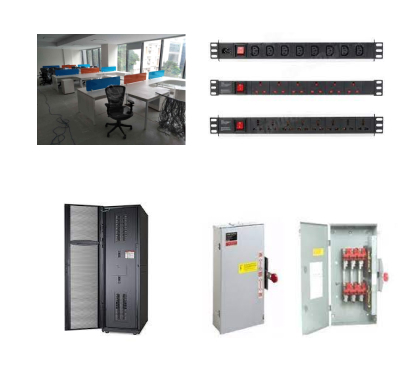
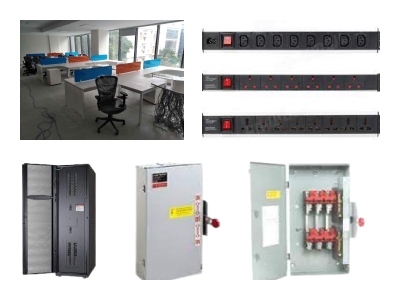
all images updated in our services details pages

diff --git a/pages/construction.html b/pages/construction.html
@@ -93,30 +93,35 @@
   <section id="">
    
   </section>
-   <!-- ======= Power System Section ======= -->
-    <section id="powerSystem" class="about-boxes">
-      <div class="container">
-	  <div class="section-title">
-          <h2>Construction</h2>
-       </div>
-	   <div class="row cardBox" data-aos="fade-right">
-	   <p>Secupower has capacity, capability, and experience to perform all the site development works :</p>
-	   <div class="col-xl-6  col-sm-12">
-        <img src="../assets/img/ourServices_construction.png" class="green_border" style="width:100%; height:100%;">
-		</div>
-	   <div  class="col-xl-6" style="padding:10px;">
-			    <p>Site enclosures, site fencing, site surveying, site grading, infill, excavation, leveling and compaction, utilities for all types of commercial, industrial, residential structures and buildings such as warehouses, schools, shopping centers and residential villas. This division includes Civil Turnkey Projects, Structural Works, Finishing Works, Infrastructural works.</p>
-			  <h6>Structural</h6>
-			  <p>SecuPower has an outstanding track record in foundation, construction, retaining walls, columns, intermediate, floor and all types of commercial and residential structures such as warehouses, shopping centers, schools and residential compounds.</p>
-		<h6>Plumbing</h6>
-		<p>Supply, installation, connection and testing of all types of sanitary plumbing fixtures and fittings. Supply, installation, connections and testing of ground and underground waste, sanitary sewage.</p>
-		<h6>Precasting</h6>
-		<p>Precast concrete is a form of product produced  by casting concrete in a reusable mold which is prepared, cast and cured, generally in a curbed manufactory environment, using recyclable moulds. Precast concrete  components can be attach to one another to form a absolute structure. It is consistently used for structural components such as;  columns, beams, floors, wall panels, staircases, pipes, tunnels, etc.</p>
-		</div>
-	  </div>
-	  </div>
-    </section><!-- End Power System Section Section -->
-
+   
+   <!-- ======= Construction Section ======= -->  
+<section id="" class="about-boxes">
+  <div class="container">
+  <div class="section-title">
+         <h2>Construction</h2>
+     </div>
+     <div class="row cardBox" data-aos="fade-right" data-aos-delay="100">
+	 <div class="col-xl-12 SerDetailsTopMargin">
+	 <p>Secupower has capacity, capability, and experience to perform all the site development works :</p>
+	 </div>
+        <div class="col-xl-6 col-sm-12">
+           <img src="../assets/img/ourServices_construction.png" class="green_border" style="width:100%; height:100%;">
+        </div>
+        <div class="col-xl-6 col-sm-12">
+           <div class="card-body">
+                <h4 class="tradingH4">Civil Solutions:</h4>
+                <p>Site enclosures, site fencing, site surveying, site grading, infill, excavation, leveling and compaction, utilities for all types of commercial, industrial, residential structures and buildings such as warehouses, schools, shopping centers and residential villas. This division includes Civil Turnkey Projects, Structural Works, Finishing Works, Infrastructural works.</p>
+			    <h6>Structural</h6>
+			    <p>SecuPower has an outstanding track record in foundation, construction, retaining walls, columns, intermediate, floor and all types of commercial and residential structures such as warehouses, shopping centers, schools and residential compounds.</p>
+				<h6>Plumbing</h6>
+				<p>Supply, installation, connection and testing of all types of sanitary plumbing fixtures and fittings. Supply, installation, connections and testing of ground and underground waste, sanitary sewage.</p>
+				<h6>Precasting</h6>
+				<p>Precast concrete is a form of product produced  by casting concrete in a reusable mold which is prepared, cast and cured, generally in a curbed manufactory environment, using recyclable moulds. Precast concrete  components can be attach to one another to form a absolute structure. It is consistently used for structural components such as;  columns, beams, floors, wall panels, staircases, pipes, tunnels, etc.</p>
+            </div>
+        </div>
+     </div>
+  </div>
+</section><!-- End Construction Section -->
   </main><!-- End #main -->
 
    <!-- ======= Footer ======= -->

diff --git a/pages/power_systems.html b/pages/power_systems.html
@@ -93,76 +93,18 @@
   <section id="">
    
   </section>
-   <!-- ======= Power System Section ======= -->
-   <!-- <section id="powerSystem" class="powerSystem">
-      <div class="container">
-	  <div class="section-title">
-          <h2>Power System</h2>
-       </div>
-	   <div  class="row service_detail_card_powersys" data-aos="fade-right">
-	   </br>
-	   	 <h4>We have the capacity, capability, and experience to perform all the electrical works, Power System Studies and Analysis works such as:</h4>
-	      <ul class="col-xl-6 col-lg-6 col-md-6"> 
-		  </br>
-			<li>Electrical Cables</li>
-			<li>Power Transformer</li>
-			<li>Pad Mounted Distribut Transformers</li>
-			<li>Dry Type Transformers</li>
-			<li>Package and Unit Sub-station</li>
-			<li>Ups System</li>
-			<li>Earthing Cables</li>
-			<li>Metering Cabinets and Panels</li>
-			<li>Mv and Switch Gears</li>
-			<li>Explosion Proof Junction Box Cable Trays</li>
-			<li>Conduit and Accessories</li>
-			<li>Bulbs | Ballasts</li>
-			<li>Trouble Lights | Flood Lights</li>
-			<li>Connectors</li>
-			<li>Plugs</li>
-			<li>Switches</li>
-			<li>Batteries</li>
-			<li>Motor Controls</li>
-			<li>Sensors</li>
-			<li>Timers</li>
-			<li>Instrumentation and Power Cables</li>
-			 </br>
-		</ul>
-		
-		<ul  class="col-xl-6 col-lg-6 col-md-6 col-sm-6"> 
-		     </br>
-			<li>Load Flow Study</li>
-			<li>Short Circuit Study</li>
-			<li>Relay Setting Calculations</li>
-			<li>Relay coordination studys</li>
-			<h6>Design & Sizing Calculations</h6>
-			<li>MV/LV Cable</li>
-			<li>Power Transformer</li>
-			<li>Instrument Transformers(CT's Vt's) Sizing Calculations</li>
-			<li>Battery Bank, Battery Chargers & UPS Sizing Calculations</li>
-			<li>Design Calculations for Grounding, Lighting, DG Sets</li>
-			<h6>Condition Monitoring & Diagnostic Testing of Major Power Equipment</h6>
-			<li>SFRA,Generators (> 5 MW) & H.T. motors (4.6 kV to 13.8 kV and >250 kW)</li>
-			<li>Power transformers and oil (> 5 MVA)</li>
-			<li>HV / EHV, CT’s / PT's and CVT's</li>
-			<li>MV / HV cables testing by very low frequency (VLF) test method</li>
-			<li>Online testing of lightning arresters & Switchgear condition monitoring testing</li>
-			<h6>Power quality management</h6>
-			<li>Harmonics measurement & Correction recommendations</li>
-			<li>Power Factor Improvement & Capacitor Bank Application</li>
-			 </br>
-		</ul>
-		</div>
-	  </div>
-    </section>--><!-- End Power System Section Section -->
+   
 	
-	
+	 <!-- ======= Power System Section ======= -->
 	<section id="" class="about-boxes">
 		<div class="container">
 		<div class="section-title">
 			<h2>POWER SYSTEM</h2>
 		</div>
      <div class="row cardBox" data-aos="fade-right" data-aos-delay="100">
+	 <div class="col-xl-12 SerDetailsTopMargin">
 	 <p>SECUPOWER has capacity, capability, and experience to perform all the electrical works such as</p>
+	 </div>
         <div class="col-xl-6 col-sm-12">
            <img src="../assets/img/power_system.png" class="green_border" style="width:100%; height:100%;">
         </div>
@@ -201,7 +143,9 @@
 	<section id="" class="trading">
 		<div class="container">
 		<div class="row cardBox" data-aos="fade-right" data-aos-delay="100">
+		<div class="col-xl-12 SerDetailsTopMargin">
 		<p>SECUPOWER has capacity, capability, and experience to perform Power System Studies and Analysis works such as</p>
+		</div>
         <div class="col-xl-6 col-sm-12">
             <img src="../assets/img/power_system2.png" class="green_border" style="width:100%; height:100%;">
         </div>
@@ -241,7 +185,7 @@
      </div>
   </div>
 </section>
-	
+	<!-- End Power System Section Section -->
 
   </main><!-- End #main -->
 

diff --git a/pages/contracting_and_electromechanical.html b/pages/contracting_and_electromechanical.html
@@ -102,8 +102,10 @@
           <h2>Contracting and Electromechanical Services</h2>
         </header>
      <div class="row cardBox" data-aos="fade-right" data-aos-delay="100">
+	 <div class="col-xl-12 SerDetailsTopMargin">
 	 <p>Our MEP division specializes in the execution of different scopes of electro-mechanical work and we cater to the growing project market and end user needs in different regions of KSA. Our commitment to customer satisfaction is a continuous journey towards improving the performance of our staff & services and meeting the challenges that confront us.</p>
      <p>We have rich and varied experience across various sectors of construction, industry, water, power, oil and gas, petrochemical etc and have a qualiﬁed work force committed to make a mark in every project undertaken.</p>
+	 </div>
         <div class="col-xl-6 col-sm-12">
             <img src="../assets/img/electricalServices.jpg" class="green_border" style="width:100%;">
         </div>

diff --git a/pages/testing_and_commissioning.html b/pages/testing_and_commissioning.html
@@ -100,13 +100,15 @@
           <h2>Testing & Commissioning</h2>
        </div>
 	   <div  class="row cardBox" data-aos="fade-right">
+	   <div class="col-xl-12 SerDetailsTopMargin">
 	    <p>Secupower has capacity, capability, and experience to perform Testing And Commissioning works such as :</p>
+		</div>
           <div class="col-xl-6 col-sm-12">
            <img src="../assets/img/ourServices_testingCommissioning.png" class="green_border" style="width:100%; height:100%;">
         </div>
 		<div class="col-xl-6 col-sm-12">
 		<div class="card-body">
-		<h4 class="tradingH4">Industrial Cybersecurity:</h4>
+		<h4 class="tradingH4">Testing & Commissioning Division:</h4>
 		  <div class="col-xl-12 col-sm-12">
 		 <div>
 		 <h4 class="tradingH4">Substation & Power equipment</h4>

diff --git a/pages/itInfrastructure.html b/pages/itInfrastructure.html
@@ -102,7 +102,9 @@
           <h2>IT Infrastructure Services</h2>
         </header>
      <div class="row cardBox" data-aos="fade-right" data-aos-delay="100">
+	 <div class="col-xl-12 SerDetailsTopMargin">
 	 <p>In order to provide secure power to your mission critical IT infrastructure, our products and solutions ensure that the systems are running smoothly and efficiently throughout the organization. Secupower has the ability to deliver cost effective and efficient Infrastructure Management Services to its clients.</p>
+	 </div>
         <div class="col-xl-6 col-sm-12">
             <img src="../assets/img/it_infra_services.jpg" alt="IT Infrastructure Services" class="green_border" style="width:100%;">
         </div>

diff --git a/pages/networkServices.html b/pages/networkServices.html
@@ -101,9 +101,11 @@
         <h2>Network Services</h2>
      </div>
      <div class="row cardBox" data-aos="fade-right" data-aos-delay="100">
+	 <div class="col-xl-12 SerDetailsTopMargin">
 	 <p>We have the capacity, capability, and experience to perform all the networking works such as</p>
+	 </div>
         <div class="col-xl-6 col-sm-12">
-            <img src="../assets/img/networkServices.jpg" class="green_border" style="width:100%; margin-top:15px;">
+            <img src="../assets/img/networkServices.jpg" class="green_border" style="width:100%; height:100%;">
         </div>
         <div class="col-xl-6 col-sm-12">
            <div class="card-body">

diff --git a/pages/industrial_security_system.html b/pages/industrial_security_system.html
@@ -100,7 +100,9 @@
           <h2>Industrial Security System</h2>
        </div>
 	   <div  class="row cardBox" data-aos="fade-right">
+	   <div class="col-xl-12 SerDetailsTopMargin">
 	    <p>Secupower has capacity, capability, and experience to perform all Industrial security system works complying with HCIS Regulations which includes :</p>
+		</div>
           <div class="col-xl-6 col-sm-12">
            <img src="../assets/img/ourServices_industrialSecurity.png" class="green_border" style="width:100%; height:100%;">
         </div>

diff --git a/pages/instrumentation.html b/pages/instrumentation.html
@@ -101,7 +101,9 @@
        </div>
 	    
 	   <div  class="row cardBox" data-aos="fade-right">
+	   <div class="col-xl-12 SerDetailsTopMargin">
 	   	<p>Secupower has capacity, capability, and experience to perform all the instrumentation works such as :</p>
+		</div>
 		<div class="col-xl-6 col-sm-12">
            <img src="../assets/img/ourServices_instrumentation.png" class="green_border" style="width:100%; height:100%;">
         </div>

diff --git a/assets/css/style.css b/assets/css/style.css
@@ -1256,6 +1256,13 @@ font-size: 54px;
 }
 
 /*--------------------------------------------------------------
+# Services Menu Detail Page
+--------------------------------------------------------------*/
+@media (max-width: 768px) {
+	.SerDetailsTopMargin{padding-top:10px;}
+}
+
+/*--------------------------------------------------------------
 # Why Us
 --------------------------------------------------------------*/
 
